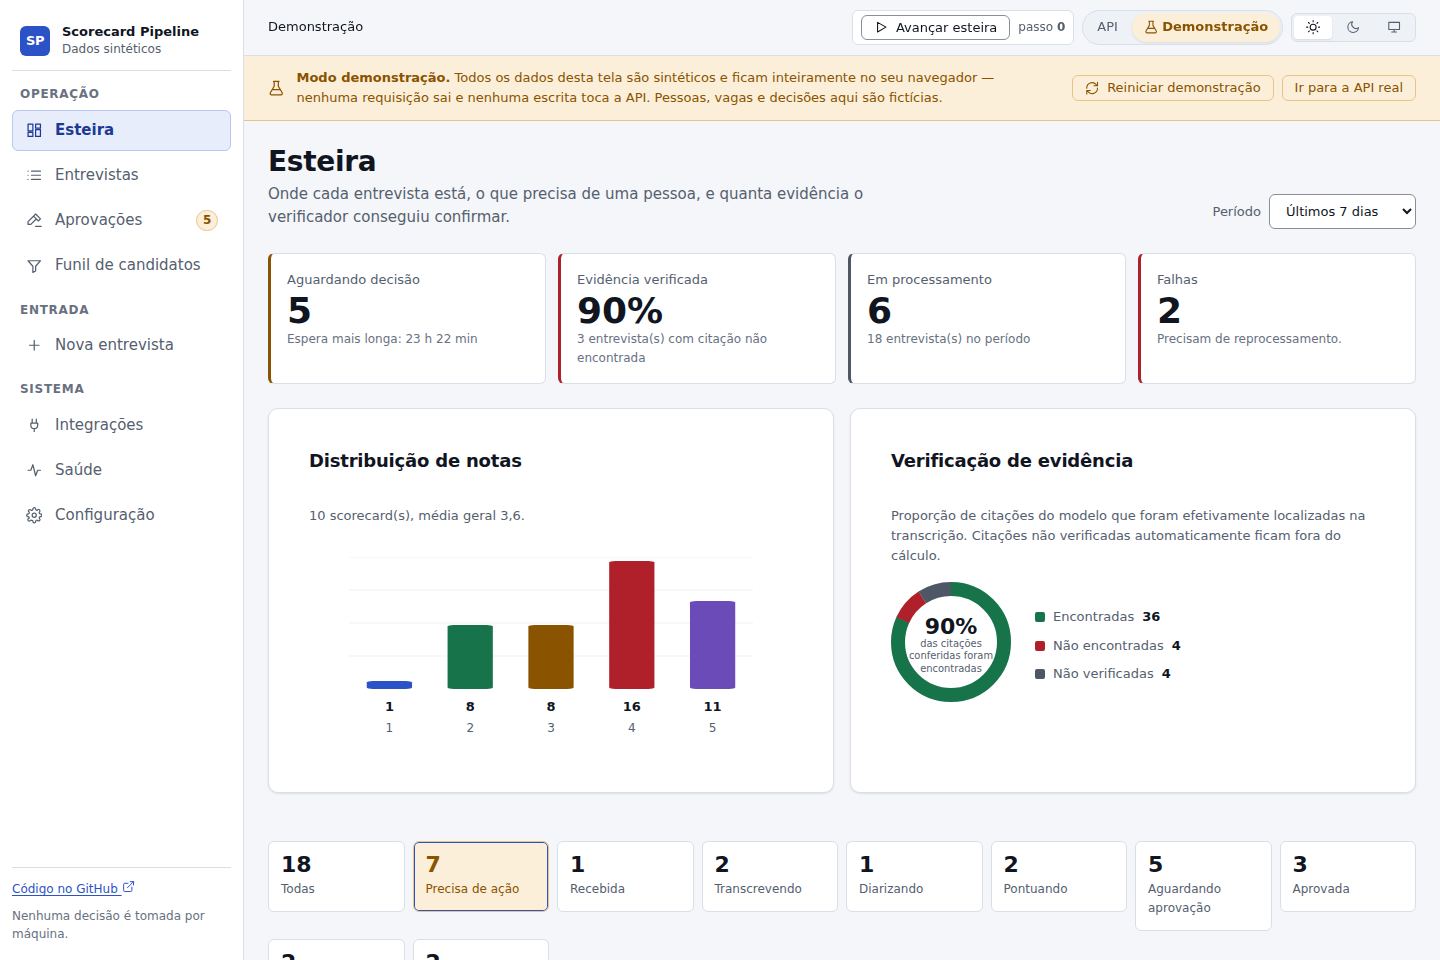
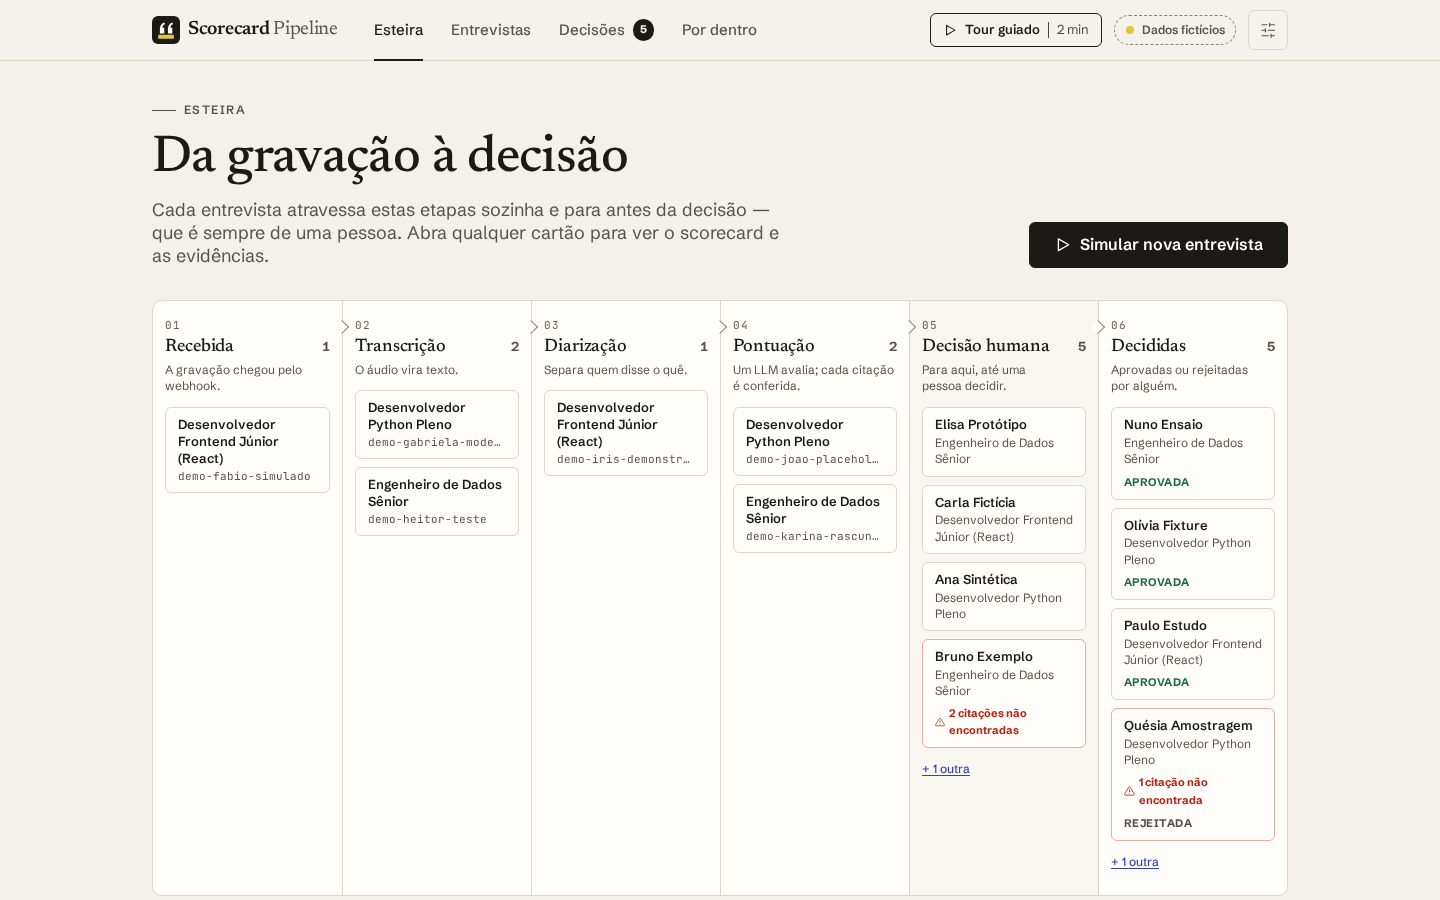
docs: README, CHANGELOG e capturas novas para a demo com landing e tour
O link da demo aponta para a página inicial; a seção da interface descreve o
tour, as duas edições (showcase e normal) e as telas novas. Capturas geradas
por npm run screenshots a partir do build showcase. A linha do vídeo no topo do
README fica como estava.

diff --git a/README.md b/README.md
@@ -331,31 +331,54 @@ a human, and — the point of the whole system — an unmissable alarm when the
 model cited a sentence that is not in the transcript.
 
 > **▶ Try it live, no clone and no backend required:**
-> **<https://luccapinto.github.io/scorecard-pipeline/#/demo/esteira>**
+> **<https://luccapinto.github.io/scorecard-pipeline/>**
 >
-> That link opens the SPA in **demonstration mode**: a synthetic, deterministic
-> dataset that runs entirely in your browser. No request leaves the page, so
-> there is nothing to install and nothing to configure.
+> The public demo opens on a landing page that explains the project in one
+> screen and offers a **2-minute guided tour** over the real interface — or you
+> can explore on your own. Everything runs in your browser on a synthetic,
+> deterministic dataset: no request leaves the page, nothing to install,
+> nothing to configure.
 
-![Pipeline dashboard](docs/assets/esteira.png)
+![Landing page of the public demo](docs/assets/inicio.png)
 
-### Two modes, never mixed
+### A guided tour over the real interface
 
-The API deliberately does not model a candidate entity, hiring funnel stages,
-decision authorship, an audit trail, or message history. Rather than fabricate
-those — in a project whose whole subject is *detecting fabrication* — the SPA
-runs in two explicit modes, selected in the URL:
+Nine steps with a spotlight on the live UI (not slides), following one
+interview from start to finish: a recording arrives → the pipeline processes it
+stage by stage → the scorecard with its BARS anchors → **the citation that does
+not exist, caught** → a verified citation leading to the exact passage in the
+transcript → the two-step human decision → the Slack notification → "behind the
+product" (architecture, tests, links to the code and the ADRs). Keyboard
+navigable (←/→, Esc), announced to screen readers, resumable, and every step is
+a URL (`?tour=N`) — which is how the screenshots, the accessibility audit and
+the tests open each one.
 
-- **API mode** (`#/...`) — the real backend, nothing invented. Where the
-  contract has no answer, the UI **states the absence** and explains why in one
-  line.
-- **Demo mode** (`#/demo/...`) — a deterministic synthetic dataset served
-  entirely in the browser. **Zero network requests leave the page**, in any
-  flow, enforced by a test that drives the real app with every network
-  primitive replaced by a throwing spy.
+| The citation that is not in the transcript | The pipeline processing a new interview |
+| --- | --- |
+| ![Tour step 5: the invented citation](docs/assets/tour-5.png) | ![Tour step 3: the pipeline](docs/assets/tour-3.png) |
 
-The rationale, the rejected alternatives and the accepted cost are recorded in
-[ADR 0005](docs/adr/0005-dois-modos-api-e-demonstracao.md).
+### Two builds: the public showcase and the real thing
+
+- **Showcase** (`npm run build:showcase`, published to GitHub Pages) — the
+  demonstration only, with the landing page and the tour. **API mode is not in
+  this bundle at all**: a build-time constant lets the bundler delete it, and
+  `npm run check:showcase` scans the built files and fails if any API-mode
+  string or any network primitive survived. Old API links open their
+  demonstration equivalent instead of an error.
+- **Full build** (`npm run build`, used by Docker Compose and `npm run dev`) —
+  for whoever runs the backend. It has both modes, selected in the URL:
+  - **API mode** (`#/...`) — the real backend, nothing invented. The API
+    deliberately does not model a candidate entity, hiring funnel stages,
+    decision authorship, an audit trail or message history; where the
+    contract has no answer, the UI **states the absence** and explains why in
+    one line.
+  - **Demo mode** (`#/demo/...`) — the same synthetic dataset as the showcase,
+    with **zero network requests** in any flow, enforced by a test that drives
+    the real app with every network primitive replaced by a throwing spy.
+
+The rationale is recorded in [ADR 0005](docs/adr/0005-dois-modos-api-e-demonstracao.md)
+(two modes, never mixed) and [ADR 0006](docs/adr/0006-build-showcase-sem-modo-api.md)
+(the showcase build and the recruiter-facing experience).
 
 Crucially, the hallucination flag is **derived even in the demo**: the client
 ports the normalisation rule from `app/text_utils.py::clean_text` and actually
@@ -364,98 +387,112 @@ not there.
 
 ### The screens
 
+Four destinations — **Esteira** (the pipeline), **Entrevistas** (interviews),
+**Decisões** (decisions) and **Por dentro** (the engineering screens) — and every
+screen explains itself in one line. The interface is in Portuguese.
+
+#### The pipeline, and a new interview going through it
+
+Each interview sits in its real backend state, left to right, and the pipeline
+stops in front of a person. **"Simular nova entrevista"** (simulate a new
+interview) sends a synthetic recording through the same webhook and walks it
+through every stage, one step at
+a time — nothing moves unless someone asks, and the state is still a pure
+function of (clock anchor, actions), so every screenshot is reproducible.
+
+![The pipeline board](docs/assets/esteira.png)
+
 #### The scorecard, and the alarm the whole system exists for
 
 Each competency shows its 1–5 score **and the BARS anchor text behind it** —
 the number alone means nothing. When a citation cannot be found in the
-transcript, the card becomes a loud, structural alert: icon, wording, border
-and position, never colour alone. It also shows the closest passage the search
-*did* find, so the reviewer can judge rather than just be warned.
+transcript, it is struck through in red and stamped, never by colour alone, and
+the card shows the closest passage the search *did* find, so the reviewer can
+judge rather than just be warned. The transcript sits right next to it.
 
-![Scorecard with two unverified citations](docs/assets/entrevista-alerta.png)
+![Scorecard with two citations that are not in the transcript](docs/assets/entrevista-alerta.png)
 
-Clicking a citation scrolls to it in the transcript and highlights it in place.
+A verified citation links to the exact passage in the transcript, highlighted:
 
-#### The approval queue
+![A verified citation highlighted in the transcript](docs/assets/entrevista-citacao.png)
 
-Ordered by waiting time, with everything needed to decide visible without
-opening the item: role, the model's recommendation, the average score, and how
-many citations were actually located. **There is no bulk approval**, by design —
-not even in the demo.
+#### Decisions are human, one at a time
 
-![Approval queue](docs/assets/aprovacoes.png)
+Ordered by waiting time, flagged evidence first-class, everything needed to
+decide visible without opening the item. **There is no bulk approval**, by
+design — not even in the demo — and deciding takes two steps that name the
+person and repeat the evidence warning.
 
-#### Integrations and messages
+![Decision queue](docs/assets/decisoes.png)
+
+#### Behind the product
+
+The architecture from webhook to decision, the state machine, the ADRs and what
+CI enforces — each claim linked to the file that implements it.
+
+![Behind the product](docs/assets/por-dentro.png)
+
+#### Integrations, ingestion, failures, the funnel
 
 A faithful rendering of the Slack Block Kit payload `app/notifications.py`
-actually builds — including the per-competency verification marker and the
-omission of the action buttons when there is no approval token — with the raw
-JSON one click away.
+actually builds; the exact webhook request, with the HMAC signature marked as
+server-side only and `202` explained as acceptance rather than completion; a
+full Python traceback split into what broke and where, with the reprocess
+action; and the "ATS" funnel, labelled as synthetic on the screen because hiring
+phases do not exist in the backend.
 
-![Integrations and Slack preview](docs/assets/integracoes.png)
-
-#### The candidate funnel — labelled as synthetic, on the screen
-
-This is the "ATS" view, and it is the clearest example of the honesty rule:
-hiring phases do not exist in the backend, so the screen says so in a banner
-before showing anything.
-
-![Candidate funnel](docs/assets/funil.png)
-
-#### Failures, and getting out of them
-
-`error_log` is a full Python traceback. It is split into what broke and where,
-with the frames folded away until asked for, plus the reprocess action.
-
-![Failed interview with traceback](docs/assets/falha.png)
-
-#### Ingestion, with the contract made legible
-
-The exact webhook request, the HMAC signature marked as server-side only,
-idempotency via `external_id`, and `202` explained as acceptance rather than
-completion.
-
-![Ingestion and webhook inspector](docs/assets/ingestao.png)
+| Slack and integrations | Ingestion |
+| --- | --- |
+| ![Slack preview](docs/assets/integracoes.png) | ![Webhook inspector](docs/assets/ingestao.png) |
+| **Failure and reprocessing** | **Candidate funnel (synthetic)** |
+| ![Failed interview with traceback](docs/assets/falha.png) | ![Candidate funnel](docs/assets/funil.png) |
 
 #### Both themes are designed, and it works on a phone
 
 Dark is an independently chosen palette, not a filter over light, and every
-colour pair in both themes is checked against WCAG AA in CI.
+colour pair in both themes is checked against WCAG AA in CI. Type is set in
+Newsreader, Schibsted Grotesk and JetBrains Mono, **self-hosted in the bundle** —
+a font CDN would be the demo's first network request.
 
-| Dark theme | Mobile, 390 px |
-| --- | --- |
-| ![Dashboard in dark theme](docs/assets/esteira-escuro.png) | ![Dashboard on mobile](docs/assets/esteira-mobile.png) |
+| Dark theme | Mobile, 390 px | Tour on mobile |
+| --- | --- | --- |
+| ![Landing page in dark theme](docs/assets/inicio-escuro.png) | ![Pipeline on mobile](docs/assets/esteira-mobile.png) | ![Tour step on mobile](docs/assets/tour-5-mobile.png) |
 
-More screens — the interview list, observability and settings — are in
-[`docs/assets/`](docs/assets/).
+More screens — the interview list, observability, dark scorecard, mobile
+landing — are in [`docs/assets/`](docs/assets/).
 
-All screenshots are generated by `frontend/scripts/screenshots.mjs` from demo
-mode, which is deterministic precisely so they can be reproduced on any machine.
-The demo video at the top is recorded the same way: `npm run demo-video`
+All screenshots are generated by `frontend/scripts/screenshots.mjs` from the
+showcase build, which is deterministic precisely so they can be reproduced on any
+machine. The demo video at the top is recorded the same way: `npm run demo-video`
 (`frontend/scripts/record-demo.mjs`) drives demo mode like a person would and
 encodes it with ffmpeg. The MP4 is hosted as a GitHub attachment, not committed.
 
 ### Running it
 
-- **With Docker Compose** the SPA is built from source (multi-stage Node →
-  nginx) and served at `http://localhost:5173`, an origin already on the API's
-  CORS allowlist.
+- **With Docker Compose** the SPA (full build) is built from source
+  (multi-stage Node → nginx) and served at `http://localhost:5173`, an origin
+  already on the API's CORS allowlist.
 - **In development**: `cd frontend && npm install && npm run dev` (port 5173 is
   mandatory — the CORS allowlist depends on it).
-- **Demo mode needs no backend at all**: open `#/demo/esteira` on any build.
-- The API URL and `X-API-Key` are configured **at runtime** in the UI itself
-  (persisted in the browser's `localStorage`) — no key or host is baked into
-  the build. The key never appears in a log, a URL or an error message.
+- **The demonstration needs no backend at all**: open `#/demo` on any full build,
+  or build and preview the showcase (`npm run build:showcase && npm run
+  preview:showcase`).
+- In the full build, the API URL and `X-API-Key` are configured **at runtime** in
+  the UI itself (persisted in the browser's `localStorage`) — no key or host is
+  baked into the build. The key never appears in a log, a URL or an error
+  message.
 - How to run, build and test: see [`frontend/README.md`](frontend/README.md).
 
 ### Quality gates
 
-Enforced by the `frontend` CI job: TypeScript `strict`, **260 tests**
-(Vitest + Testing Library), a WCAG AA contrast check over the design tokens in
-both themes, an **axe-core audit across 10 screens × 2 themes**, and a
-**≤ 180 KB gzipped** initial-load budget (currently ~99 KB; the demo dataset is
-a separate chunk that API-mode users never download). Runtime dependencies:
-`react` and `react-dom`, and nothing else.
+Enforced by the `frontend` CI job: TypeScript `strict`, **299 tests** (Vitest +
+Testing Library, including a project that compiles the app as the showcase and
+tests the public bundle as built), a WCAG AA contrast check over the design
+tokens in both themes, an **axe-core audit of every screen and every tour step ×
+2 themes on both builds**, the showcase bundle check, and a **≤ 180 KB gzipped**
+initial-load budget on both builds (currently ~118 KB full, ~113 KB showcase;
+the demo dataset is a separate chunk that API-mode users never download).
+Runtime dependencies: `react`, `react-dom` and three self-hosted font packages.
 
 ---
 

diff --git a/CHANGELOG.md b/CHANGELOG.md
@@ -78,6 +78,28 @@ versionamento segue [Semantic Versioning](https://semver.org/lang/pt-BR/).
   (`npm run check:size`) — as três no job `frontend` do CI.
 - Script reproduzível de screenshots (`frontend/scripts/screenshots.mjs`) e
   galeria em `docs/assets/`, gerada a partir do modo demonstração.
+- **Build showcase da demo pública** (`npm run build:showcase`, publicado no
+  GitHub Pages): só a demonstração, sem modo API em lugar nenhum do bundle —
+  a constante `__SHOWCASE__` deixa o bundler apagar os ramos do modo API.
+  `npm run check:showcase` varre os arquivos gerados atrás de strings do modo
+  API e de primitivas de rede, com o build normal como controle, e roda no CI e
+  antes do deploy. Links antigos do modo API abrem o equivalente da
+  demonstração em vez da tela de CORS. Ver
+  [ADR 0006](docs/adr/0006-build-showcase-sem-modo-api.md).
+- **Página inicial para quem chega de fora**: a proposta em uma frase, um caso
+  real de citação inventada (lido do dataset e buscado na transcrição), a
+  esteira em seis passos, o problema, a engenharia e links para código, README e
+  ADRs.
+- **Tour guiado** de nove passos com spotlight sobre a interface real, com
+  progresso, Anterior/Próximo, teclado (←/→, Esc), foco gerenciado, `aria-live`
+  e retomada. Cada passo é uma URL (`?tour=N`).
+- **"Simular nova entrevista"**: uma gravação roteirizada atravessa a esteira
+  etapa por etapa até a decisão humana, sempre disparada por uma pessoa e com o
+  estado ainda puro e reproduzível.
+- Tela **"Por trás do produto"** com a arquitetura do webhook à decisão, a
+  máquina de estados, os ADRs e o que o CI cobra, cada item ligado ao arquivo.
+- Projeto Vitest `showcase` que testa a aplicação compilada como o bundle
+  público; testes de isolamento de rede para a página inicial e para o tour.
 
 ### Alterado
 
@@ -95,6 +117,22 @@ versionamento segue [Semantic Versioning](https://semver.org/lang/pt-BR/).
   anúncio via `aria-live` das mudanças de status vindas do poll.
 - `frontend/README.md` atualizado: a seção "CI (sugestão)" descrevia um job
   que já existia desde a introdução do frontend.
+- **Frontend refeito para recrutadores** (ver ADR 0006): identidade visual
+  editorial — papel e tinta, marca-texto para evidência encontrada e caneta
+  vermelha para citação inventada — com Newsreader, Schibsted Grotesk e
+  JetBrains Mono auto-hospedadas; cabeçalho com quatro destinos (Esteira,
+  Entrevistas, Decisões, Por dentro) no lugar da barra lateral de oito itens;
+  telas de engenharia agrupadas em "Por dentro"; toda tela com uma linha que
+  explica o que se vê. A esteira virou um quadro por etapa; o scorecard fica ao
+  lado da transcrição, e a citação verificada leva ao trecho marcado.
+- O banner amarelo do modo demonstração virou a marca persistente "Dados
+  fictícios" no cabeçalho; tema e "Reiniciar demonstração" foram para um menu
+  discreto. "Avançar esteira · passo N" saiu.
+- `check:a11y` audita todas as telas e os nove passos do tour nos dois temas e
+  nos dois builds; `check:size` mede os dois builds; `screenshots` gera a
+  galeria nova a partir do showcase e, com `--matrix`, todas as telas em 1440,
+  1280, 390 px e tema escuro.
+- `.github/workflows/pages.yml` publica `dist-showcase/`.
 
 - Diagramas da arquitetura dupla redesenhados: os estados da esteira
   (`TRANSCREVENDO`, `DIARIZANDO`) agora aparecem numa faixa própria,

diff --git a/docs/assets/README.md b/docs/assets/README.md
@@ -1,30 +1,36 @@
 # Capturas de tela
 
-Geradas por `frontend/scripts/screenshots.mjs` a partir do **modo
-demonstração**, cujo dataset é sintético e determinístico. Todos os nomes,
-vagas e decisões nas imagens são fictícios.
+Geradas por `frontend/scripts/screenshots.mjs` a partir do **build showcase**
+(a demonstração pública), cujo dataset é sintético e determinístico. Todos os
+nomes, vagas e decisões nas imagens são fictícios.
 
 Para regenerar:
 
 ```bash
 cd frontend
-npm run build
-npm run preview &
+npm run build:showcase
+npm run preview:showcase -- --port 4173 &
 npm run screenshots
 ```
 
 | Arquivo | Tela |
 | --- | --- |
+| `inicio.png` | Página inicial |
 | `esteira.png` | Esteira |
-| `entrevista-alerta.png` | Scorecard com evidência não verificada |
-| `entrevistas.png` | Lista de entrevistas |
-| `aprovacoes.png` | Fila de aprovação |
-| `integracoes.png` | Integrações e mensagens |
-| `funil.png` | Funil de candidatos |
+| `entrevista-alerta.png` | Scorecard com citação que não existe |
+| `entrevista-citacao.png` | Citação verificada na transcrição |
+| `tour-5.png` | Tour, passo 5: A citação que não existe |
+| `tour-3.png` | Tour, passo 3: A esteira processa, etapa por etapa |
+| `decisoes.png` | Decisões |
+| `por-dentro.png` | Por trás do produto |
+| `integracoes.png` | Slack e integrações |
 | `ingestao.png` | Ingestão |
+| `funil.png` | Funil de candidatos |
 | `falha.png` | Falha reprocessável |
+| `entrevistas.png` | Lista de entrevistas |
 | `saude.png` | Saúde e observabilidade |
-| `configuracao.png` | Configuração |
-| `esteira-escuro.png` | Esteira (tema escuro) |
+| `inicio-escuro.png` | Página inicial (tema escuro) |
+| `entrevista-alerta-escuro.png` | Scorecard com citação que não existe (tema escuro) |
+| `inicio-mobile.png` | Página inicial (mobile, 390px) |
 | `esteira-mobile.png` | Esteira (mobile, 390px) |
-| `entrevista-alerta-escuro.png` | Scorecard com evidência não verificada (tema escuro) |
+| `tour-5-mobile.png` | Tour, passo 5: A citação que não existe (mobile, 390px) |
